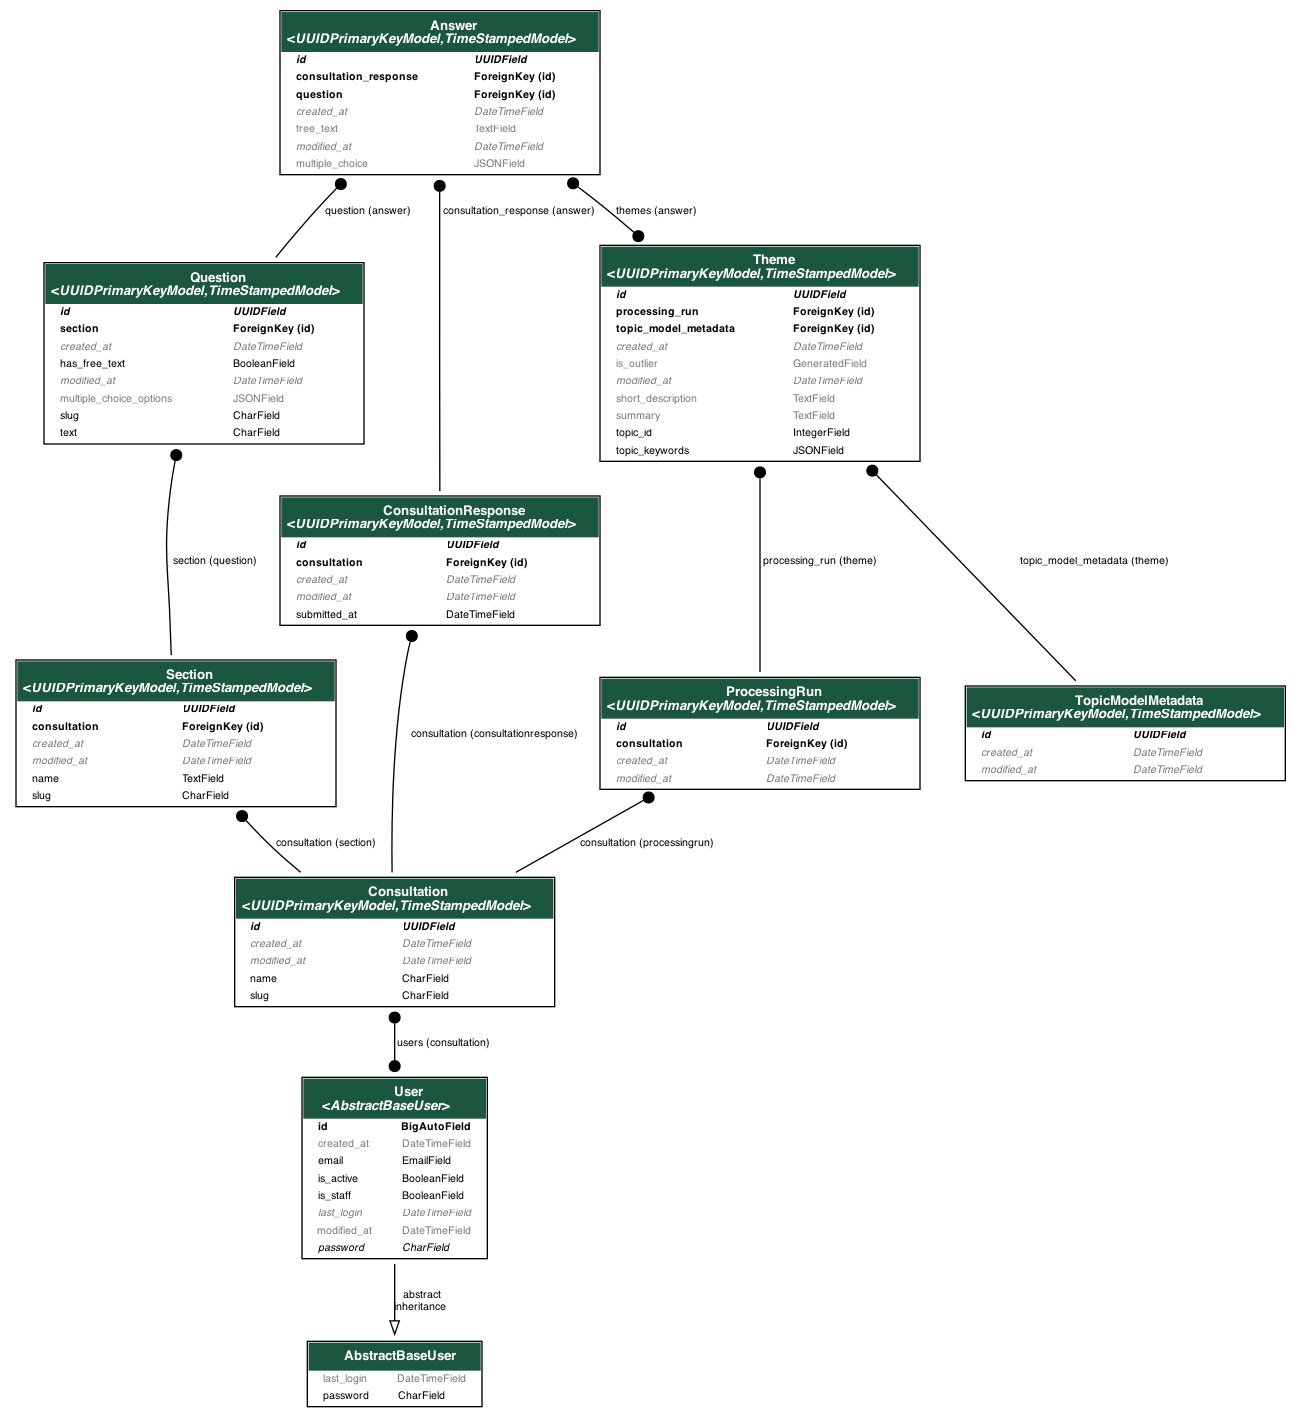
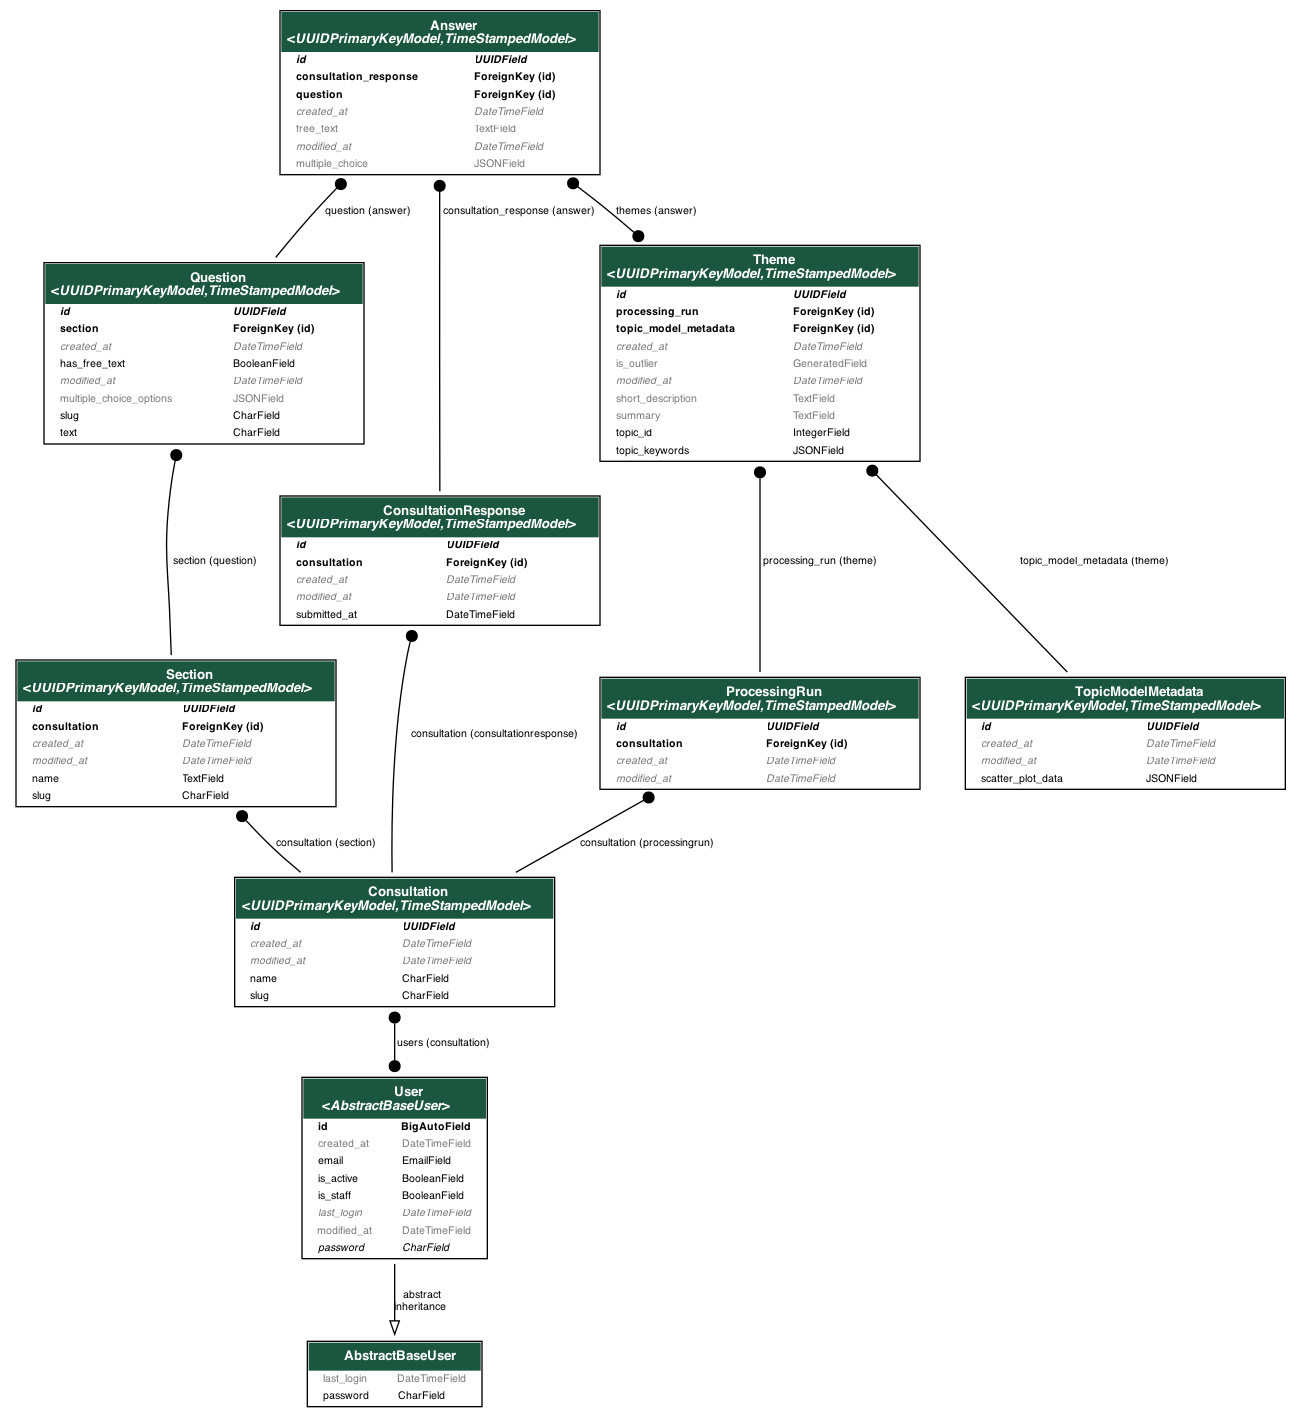
Add field to store data to make charts.

Changed region(s): [[0.7379, 0.4658, 0.9839, 0.5589]]

diff --git a/consultation_analyser/consultations/migrations/0022_topicmodelmetadata_scatter_plot_data.py b/consultation_analyser/consultations/migrations/0022_topicmodelmetadata_scatter_plot_data.py
@@ -1,0 +1,20 @@
+# Generated by Django 5.0.6 on 2024-07-02 21:10
+
+from django.db import migrations, models
+
+
+class Migration(migrations.Migration):
+    dependencies = [
+        (
+            "consultations",
+            "0017_rename_theme_oldtheme_rename_theme_answer_old_theme_squashed_0021_remove_answer_old_theme_delete_oldtheme",
+        ),
+    ]
+
+    operations = [
+        migrations.AddField(
+            model_name="topicmodelmetadata",
+            name="scatter_plot_data",
+            field=models.JSONField(default=list),
+        ),
+    ]

diff --git a/consultation_analyser/consultations/models.py b/consultation_analyser/consultations/models.py
@@ -133,6 +133,7 @@ class ProcessingRun(UUIDPrimaryKeyModel, TimeStampedModel):
 
 class TopicModelMetadata(UUIDPrimaryKeyModel, TimeStampedModel):
     # TODO -  Some other metadata on the model TBC and link to saved model
+    scatter_plot_data = models.JSONField(default=list)
 
     class Meta(UUIDPrimaryKeyModel.Meta, TimeStampedModel.Meta):
         pass
